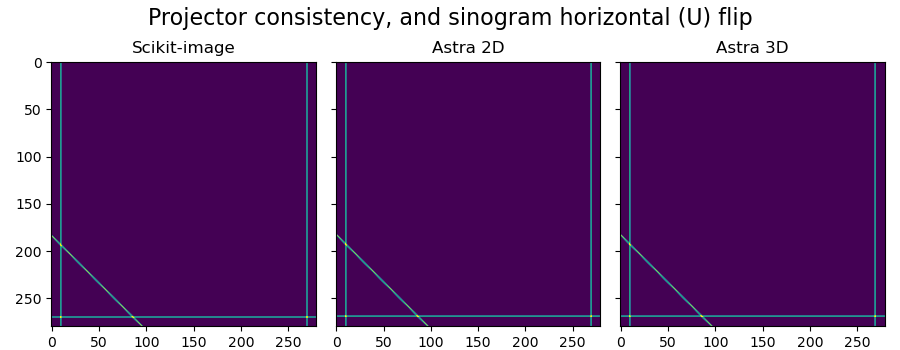
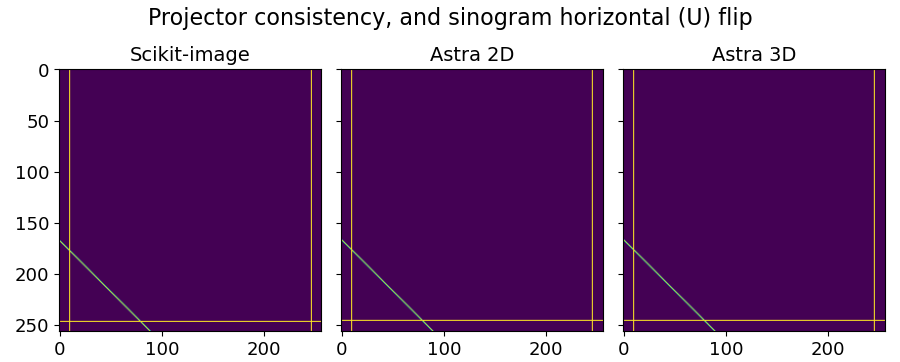
More documentation work

diff --git a/doc_sources/geometry.md b/doc_sources/geometry.md
@@ -8,8 +8,10 @@ Here we provide visual ways to assess the correctness of the geometry. In partic
 4. The excitation beam direction: `bottom-up`, `top-down`, `left-rightwards`, `right-leftwards`
 5. The position of the XRF detector with respect to the excitation beam: `right` vs `left`
 
+## Rotation direction and sinogram flip
+
 To produce the relevant figures, we use the following code:
-```python
+```Python
 import numpy as np
 from matplotlib import pyplot as plt
 import corrct as cct
@@ -34,21 +36,63 @@ sino_wu[..., 10] = 1
 with cct.projectors.ProjectorUncorrected(vol_shape, test_angles) as A:
     bp_angles_3 = A.bp(sino_wu)
 
-fig, axs = plt.subplots(1, 3, sharex=True, sharey=True, figsize=[9, 3.5])
+```
+
+The following sinogram will produce a specific type of structure that allows us
+to determine the rotation direction and the sinogram flip.
+::::{tab-set}
+:::{tab-item} Image
+![geometry-projectors-sinogram](images/geometry-projectors-sinogram.png)
+:::
+:::{tab-item} Code
+```Python
+fig, axs = plt.subplots(1, 1, figsize=(9, 1))
+axs.imshow(sino_wu[0])
+axs.set_title("Sinogram", fontsize=14)
+axs.tick_params(labelsize=13)
+fig.tight_layout()
+```
+:::
+::::
+
+In the following reconstructions, we can see that the incoming beam comes from
+the top of the image, and the rotation direction is `counter-clockwise`.
+The sinogram `U` axis goes from left to right in the reconstruction volume.
+::::{tab-set}
+:::{tab-item} Image
+![geometry-projectors-coherence](images/geometry-projectors-comparison.png)
+:::
+:::{tab-item} Code
+```Python
+fig, axs = plt.subplots(1, 3, sharex=True, sharey=True, figsize=[9, 3.625])
 fig.suptitle("Projector consistency, and sinogram horizontal (U) flip", fontsize=16)
 axs[0].imshow(bp_angles_s, vmin=0.0, vmax=1)
-axs[0].set_title("Scikit-image")
+axs[0].set_title("Scikit-image", fontsize=14)
 axs[1].imshow(bp_angles_a, vmin=0.0, vmax=1)
-axs[1].set_title("Astra 2D")
+axs[1].set_title("Astra 2D", fontsize=14)
 axs[2].imshow(bp_angles_3[0], vmin=0.0, vmax=1)
-axs[2].set_title("Astra 3D")
+axs[2].set_title("Astra 3D", fontsize=14)
+for ax in axs:
+    ax.tick_params(labelsize=13)
 plt.tight_layout()
+```
+:::
+::::
 
+## Incoming beam attenuation direction
+
+For a correct attenuation correction of the incoming beam intensity, the
+acquisition geometry used for computing the attenuation map needs to match the
+reconstruction geometry from the previous section. The following code can be used
+to compute and visualize the attenuation maps for the incoming beam intensity at
+the same angles as for the reconstruction geometry seen above:
+
+```Python
 vol_shape = [256, 256]
 vol_att_test = cct.processing.circular_mask(vol_shape, radius_offset=-80).astype(np.float32)
 det_angle_rad = -np.pi / 2
 
-att_vol = cct.attenuation.AttenuationVolume(
+att_vol = cct.physics.attenuation.AttenuationVolume(
     incident_local=vol_att_test, emitted_local=None, angles_rot_rad=test_angles, angles_det_rad=det_angle_rad
 )
 att_vol.compute_maps()
@@ -59,8 +103,21 @@ for ii_a, a in enumerate(test_angles):
     att_vol.plot_map(ax[ii_a], ii_a)
     ax[ii_a].set_title(f"{np.rad2deg(a)}")
 fig.tight_layout()
+```
+![geometry-attenuation-in](images/geometry-attenuation-incoming-beam.png)
 
-att_vol = cct.attenuation.AttenuationVolume(
+The red arrow indicates the incoming beam direction, which matches with the
+geometry of the previous figure.
+
+## Detector position (for self-attenuation)
+
+A similar type of technique can be used for determining the geometry of the
+self-attenuation correction. With the following code, we can compute and
+visualize the attenuation maps for the emitted photons at the same angles as the
+reconstruction geometry:
+
+```Python
+att_vol = cct.physics.attenuation.AttenuationVolume(
     incident_local=None, emitted_local=vol_att_test, angles_rot_rad=test_angles, angles_det_rad=det_angle_rad
 )
 att_vol.compute_maps()
@@ -73,15 +130,11 @@ for ii_a, a in enumerate(test_angles):
 fig.tight_layout()
 ```
 
-## Rotation direction and sinogram flip
-
-![geometry-projectors-coherence](images/geometry-projectors-comparison.png)
-
-## Incoming beam direction
-
-![geometry-attenuation-in](images/geometry-attenuation-incoming-beam.png)
-
-## Detector position
-
 ![geometry-attenuation-out](images/geometry-attenuation-emitted-photons.png)
+
+The black arrow indicates the detector position, which for the purpose of
+self-attenuation correction also coincides with what we call (with an abuse of
+terminology) the emitted photon direction.
+From this figure, we conclude that the detector sits on the `right` of the sample,
+from the incoming beam perspective.
 

diff --git a/doc_sources/tutorial.md b/doc_sources/tutorial.md
@@ -1,10 +1,11 @@
-# Tutorial
+# Tutorial (basics)
 
 In this tutorial, we will first learn the basics of how to reconstruct
-projection data.
-We will then introduce attenuation correction, data terms, and regularizers.
-Finally, we will see the more advanced topics like guided regularization
-parameter selection.
+projection data with `corrct`.
+We will then describe how to use data terms and regularizers.
+Finally, we will introduce more advanced topics like attenuation correction and
+guided regularization hyper-parameter selection, which will be covered in
+dedicated tutorials.
 
 ## Reconstructing projection data
 
@@ -68,8 +69,10 @@ with cct.projectors.ProjectorUncorrected(vol_shape_xy, angles_rad) as p:
     vol = p.T(np.ones((16, 10)))
 ```
 
-Creating attenuation correction projectors is a bit more involved, and we will
-see it later in the [attenuation correction](#attenuation-correction) section.
+Creating attenuation correction projectors is a bit more involved, and it
+requires knowledge about the sample, regarding composition and morphology.
+It is briefly introduce in the [attenuation section](#attenuation-correction),
+and described in the [attenuation correction tutorial](attenuation_tutorial.md).
 
 Projectors can use different backends, depending on the available packages,
 system resources, and user requests. The included projector backends are based
@@ -155,6 +158,30 @@ with cct.projectors.ProjectorUncorrected(vol_shape_xy, angles_rad) as p:
 The same goes for the parameter `upper_limit`.
 The MLEM algorithm assumes a `lower_limit` of 0.
 
+## Data terms and regularization
+
+Iterative methods support regularizers, and data fidelity terms. The former can
+be used to impose prior knowledge on the reconstructed solution, while the
+latter impose prior knowledge on the weight given to the data points.
+
+### Regularizers
+
+Famous regularizers are the TV-min and wavelet l1-min. They can be found in the
+[](#regularizers) module.
+
+### Data fidelity terms
+
+The PDHG algorithm supports various data fidelity terms. They can be found in
+the [](#data_terms) module, and they include:
+* l2 norm - least squares reconstruction - default:
+[`DataFidelity_l2`](#data_terms.DataFidelity_l2)
+* weighted l2 norm - when the variance of the sinogram points is known:
+[`DataFidelity_wl2`](#data_terms.DataFidelity_wl2)
+* l1 norm - when the sinogram noise is mostly sparse:
+[`DataFidelity_l1`](#data_terms.DataFidelity_l1)
+* Kullback-Leibler - when dealing with Poisson noise:
+[`DataFidelity_KL`](#data_terms.DataFidelity_KL)
+
 ## Attenuation correction
 
 This package implements the attenuation correction method described in [2].
@@ -190,30 +217,6 @@ For a dedicated description of the projection and attenuation correction geometr
 the reader can have a look at the dedicated [geometry page](geometry.md).
 For a in-depth description of the functionality available in the physics module,
 instead, the reader can have a look at the dedicated [physics page](physics_model.md).
-
-## Data terms and regularization
-
-Iterative methods support regularizers, and data fidelity terms. The former can
-be used to impose prior knowledge on the reconstructed solution, while the
-latter impose prior knowledge on the weight given to the data points.
-
-### Regularizers
-
-Famous regularizers are the TV-min and wavelet l1-min. They can be found in the
-[](#regularizers) module.
-
-### Data fidelity terms
-
-The PDHG algorithm supports various data fidelity terms. They can be found in
-the [](#data_terms) module, and they include:
-* l2 norm - least squares reconstruction - default:
-[`DataFidelity_l2`](#data_terms.DataFidelity_l2)
-* weighted l2 norm - when the variance of the sinogram points is known:
-[`DataFidelity_wl2`](#data_terms.DataFidelity_wl2)
-* l1 norm - when the sinogram noise is mostly sparse:
-[`DataFidelity_l1`](#data_terms.DataFidelity_l1)
-* Kullback-Leibler - when dealing with Poisson noise:
-[`DataFidelity_KL`](#data_terms.DataFidelity_KL)
 
 ## Guided regularization parameter selection
 

diff --git a/doc_sources/alignment_tools.md b/doc_sources/alignment_tools.md
@@ -42,6 +42,30 @@ sinusoid that interpolates the chosen value of interest across all the rotation
 angles. The value of interest can include the center-of-mass (CoM) or the position
 of the highest intensity peak of the projections.
 
+We present here an example of how to use the `fit_u` method to compute the horizontal shifts.
+```Python
+import corrct as cct
+
+align_pre = cct.alignment.DetectorShiftsPRE(data_vwu, angles_rad)
+
+diffs_u_pre, cor = align_pre.fit_u()
+```
+where the projection data is passed to the `DetectorShiftsPRE` class with the
+following axes order: [V], W, U, which means that V is the slowest varying axis,
+but also optional (in case of 2D data).
+
+These shifts can be used to create a `ProjectionGeometry` object, which can be
+used to correct the projection data, when passed to projection operators as follows:
+```Python
+prj_geom = cct.models.get_prj_geom_parallel(geom_type="2d")
+prj_geom.set_detector_shifts_vu(diffs_u_pre, cor)
+vol_geom = cct.models.get_vol_geom_from_data(data_vwu)
+
+solver = cct.solvers.SIRT()
+with cct.projectors.ProjectorUncorrected(vol_geom, angles_rad, prj_geom=prj_geom) as A:
+    rec_pre, _ = solver(A, data_test, iterations=100)
+```
+
 ## Image stack alignment
 
 The [](#alignment.shifts.DetectorShiftsXC.fit_vu_accum_drifts) function calculates the
